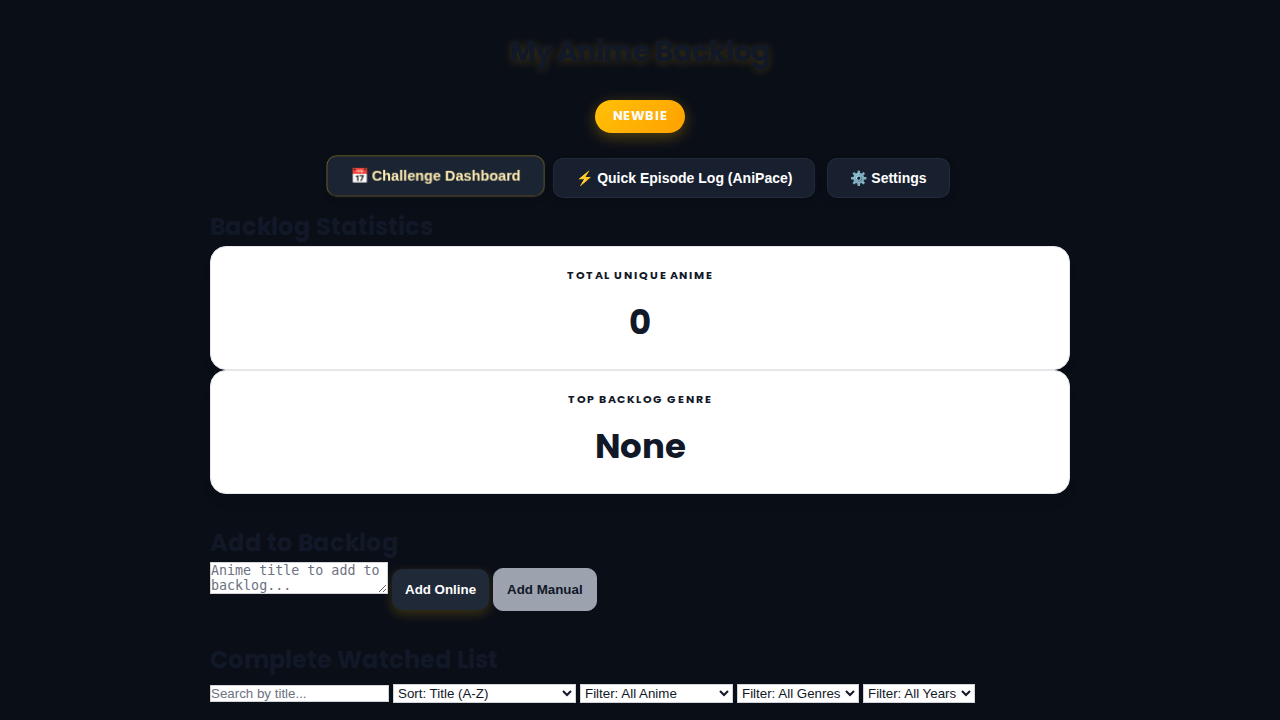
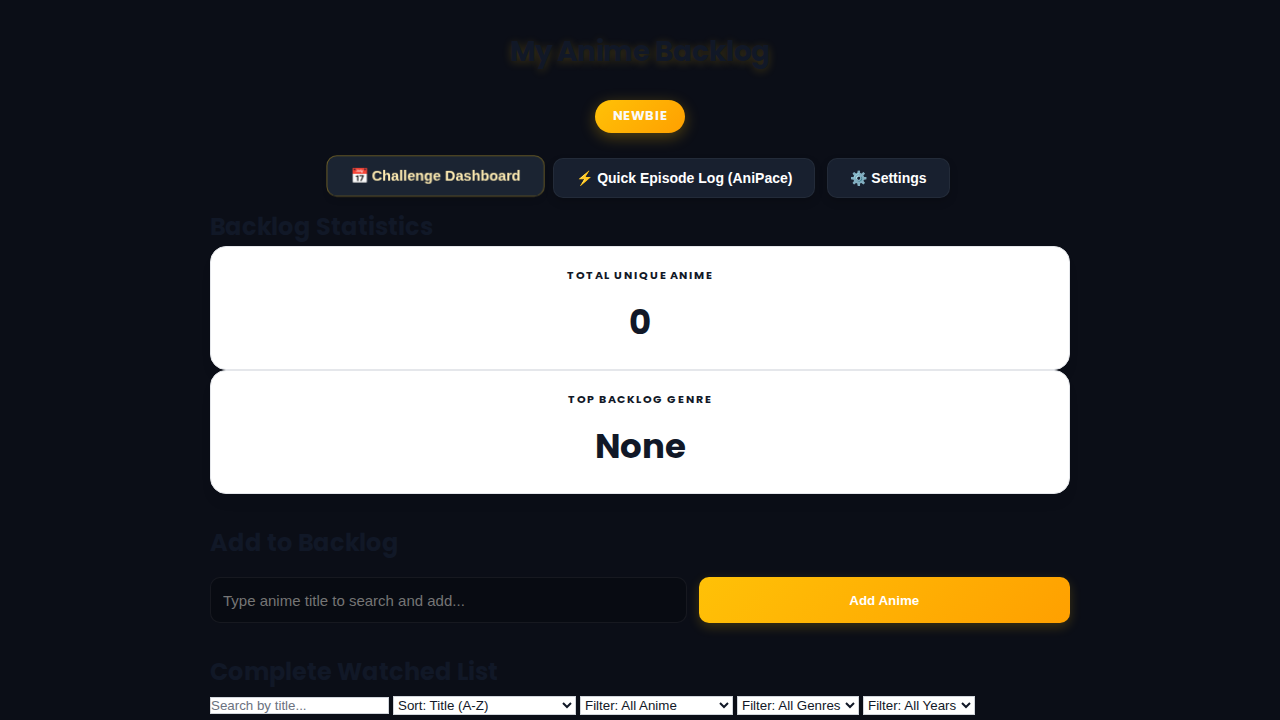
Final: Remove manual add buttons, upgrade search controls, and enforce flawless contrast rules

Changed region(s): [[0.1562, 0.9472, 0.7812, 1.0], [0.5312, 0.7944, 0.8438, 0.8861], [0.1562, 0.7639, 0.4688, 0.8556]]

diff --git a/script.js b/script.js
@@ -922,11 +922,10 @@ function createDayEntry(date) {
 
     const dateDisplay = date.toLocaleDateString('en-GB', { weekday: 'long', day: '2-digit', month: 'long', year: 'numeric' });
     
-    div.innerHTML = `<h3>${dateDisplay}<span class="daily-total"></span></h3><div class="anime-list-container"></div><textarea placeholder="Type an anime name..."></textarea><div class="add-controls"><button class="add-btn">Add from Online</button><button class="add-btn manual-add-btn">Add Manually</button></div>`;
+    div.innerHTML = `<h3>${dateDisplay}<span class="daily-total"></span></h3><div class="anime-list-container"></div><div class="add-controls" style="display: flex; gap: 10px; margin-top: 15px;"><input type="text" placeholder="Type anime name to search and add..." style="flex-grow: 1; padding: 12px; border-radius: 10px; background-color: rgba(0,0,0,0.2); border: 1px solid var(--border-light); color: var(--text-color); font-size: 15px;"><button class="add-btn" style="flex-shrink: 0; padding: 12px 24px; font-weight: 700; width: auto; margin: 0;">Add Anime</button></div>`;
     const animeListContainer = div.querySelector('.anime-list-container');
-    const animeInput = div.querySelector('textarea');
+    const animeInput = div.querySelector('input');
     const addOnlineBtn = div.querySelector('.add-btn');
-    const addManualBtn = div.querySelector('.manual-add-btn');
     const dailyTotalEl = div.querySelector('.daily-total');
 
     function renderWatchedList() {
@@ -1015,57 +1014,9 @@ function createDayEntry(date) {
             console.error("API Error:", error); 
             showNotification('Failed to fetch anime data. Check internet or API rate limits.', 'error'); 
         } finally { 
-            addOnlineBtn.textContent = 'Add from Online'; 
+            addOnlineBtn.textContent = 'Add Anime';
             addOnlineBtn.disabled = false; 
         } 
-    };
-    
-    addManualBtn.onclick = () => { 
-        const rawInput = animeInput.value.trim();
-        if (!rawInput) return;
-
-        const lines = rawInput.split('\n').map(l => l.trim()).filter(l => l.length > 0);
-        
-        if (lines.length > 1) {
-            let addedCount = 0;
-            lines.forEach(line => {
-                const parsed = parseBulkLine(line);
-                savedDayData.watched.push({
-                    title: parsed.title,
-                    isManual: true,
-                    user_score: parsed.rating,
-                    date_added: new Date().toISOString()
-                });
-                addedCount++;
-            });
-            animeInput.value = '';
-            saveData();
-            renderWatchedList();
-            updateAllDisplays();
-            processAchievements();
-            showNotification(`Successfully bulk-logged ${addedCount} anime!`);
-        } else {
-            const title = lines[0];
-            const parsed = parseBulkLine(title);
-
-            let rating = parsed.rating;
-            if (rating === null) {
-                rating = promptForRating(parsed.title);
-            }
-
-            savedDayData.watched.push({
-                title: parsed.title,
-                isManual: true,
-                user_score: rating,
-                date_added: new Date().toISOString()
-            });
-            animeInput.value = '';
-            saveData();
-            renderWatchedList();
-            updateAllDisplays();
-            processAchievements();
-            showNotification(`Logged ${parsed.title}!`);
-        }
     };
     
     renderWatchedList();
@@ -1276,7 +1227,6 @@ function initializeApp() {
 
     const backlogInput = document.getElementById('backlog-anime-input');
     const addBacklogOnlineBtn = document.getElementById('add-backlog-online-btn');
-    const addBacklogManualBtn = document.getElementById('add-backlog-manual-btn');
 
     addBacklogOnlineBtn.onclick = async () => {
         const title = backlogInput.value.trim(); 
@@ -1305,58 +1255,8 @@ function initializeApp() {
             console.error("API Error:", error); 
             showNotification('Failed to fetch anime data. Check internet or API rate limits.', 'error'); 
         } finally { 
-            addBacklogOnlineBtn.textContent = 'Add Online'; 
+            addBacklogOnlineBtn.textContent = 'Add Anime';
             addBacklogOnlineBtn.disabled = false; 
-        }
-    };
-
-    addBacklogManualBtn.onclick = () => { 
-        const rawInput = backlogInput.value.trim();
-        if (!rawInput) return;
-        
-        const lines = rawInput.split('\n').map(l => l.trim()).filter(l => l.length > 0);
-
-        if (lines.length > 1) {
-            // Bulk add mode
-            let addedCount = 0;
-            lines.forEach(line => {
-                const parsed = parseBulkLine(line);
-                challengeData.backlog.push({
-                    title: parsed.title,
-                    isManual: true,
-                    user_score: parsed.rating,
-                    date_added: new Date().toISOString()
-                });
-                addedCount++;
-            });
-            backlogInput.value = '';
-            saveData();
-            renderAllAnimeList();
-            updateAllDisplays();
-            processAchievements();
-            showNotification(`Successfully bulk-imported ${addedCount} anime into your backlog!`);
-        } else {
-            // Single add mode with prompt
-            const title = lines[0];
-            const parsed = parseBulkLine(title);
-
-            let rating = parsed.rating;
-            if (rating === null) {
-                rating = promptForRating(parsed.title);
-            }
-
-            challengeData.backlog.push({
-                title: parsed.title,
-                isManual: true,
-                user_score: rating,
-                date_added: new Date().toISOString()
-            });
-            backlogInput.value = '';
-            saveData();
-            renderAllAnimeList();
-            updateAllDisplays();
-            processAchievements();
-            showNotification(`Added ${parsed.title} to your backlog!`);
         }
     };
     
@@ -1679,7 +1579,7 @@ FIREBASE SETUP INSTRUCTIONS
        "users": {
          "$uid": {
            ".read": "auth != null && auth.uid == $uid",
-           ".write": "auth != null && auth.write == $uid"
+           ".write": "auth != null && auth.uid == $uid"
          }
        }
      }

diff --git a/styles.css b/styles.css
@@ -472,20 +472,20 @@ header h1 {
 .add-controls { display: flex; gap: 12px; }
 .add-btn {
     flex-grow: 1;
-    background-color: var(--primary-color);
-    color: #000;
+    background: linear-gradient(135deg, #FFC107, #FFA000);
+    color: #0A0E17;
     font-weight: 700;
     border: none;
     padding: 13px;
     border-radius: 10px;
     cursor: pointer;
-    transition: all 0.2s;
+    transition: all 0.3s cubic-bezier(0.16, 1, 0.3, 1);
     box-shadow: 0 4px 12px rgba(255, 193, 7, 0.2);
 }
 .add-btn:hover:not(:disabled) {
-    background-color: #FFE082;
-    transform: translateY(-1px);
-    box-shadow: 0 6px 15px rgba(255, 193, 7, 0.3);
+    background: linear-gradient(135deg, #FFE082, #FFC107);
+    transform: translateY(-2px) scale(1.02);
+    box-shadow: 0 6px 20px rgba(255, 193, 7, 0.35);
 }
 .add-btn:disabled { background-color: #374151; color: #9CA3AF; cursor: not-allowed; box-shadow: none; }
 .manual-add-btn {
@@ -770,23 +770,25 @@ header h1 {
 
 #achievement-banner { 
     position: fixed; 
-    top: -100px; 
+    top: -150px;
     left: 50%; 
     transform: translateX(-50%); 
     background: linear-gradient(135deg, var(--primary-color), #FFA000);
     color: #000;
     padding: 14px 28px;
-    border-radius: 0 0 16px 16px;
-    box-shadow: 0 10px 25px rgba(255, 193, 7, 0.3);
-    font-size: 16px;
+    border-radius: 12px;
+    box-shadow: 0 10px 35px rgba(0,0,0,0.45);
+    font-size: 15px;
     font-weight: 700;
     z-index: 10000; 
-    transition: top 0.5s cubic-bezier(0.175, 0.885, 0.32, 1.275), background-color 0.3s;
+    transition: top 0.4s cubic-bezier(0.175, 0.885, 0.32, 1.275);
     display: flex;
     align-items: center;
     justify-content: space-between;
+    width: 90%;
+    max-width: 500px;
 }
-#achievement-banner.show { top: 0; }
+#achievement-banner.show { top: 20px; }
 
 #achievement-banner .close-btn {
     color: #000;
@@ -1207,7 +1209,7 @@ input[type="date"]::-webkit-outer-spin-button {
     transition: all 0.3s cubic-bezier(0.16, 1, 0.3, 1) !important;
 }
 .add-btn:hover:not(:disabled) {
-    background: linear-gradient(135deg, #FFE082, var(--primary-color)) !important;
+    background: linear-gradient(135deg, #FFE082, #FFC107) !important;
     transform: translateY(-2px) scale(1.03);
     box-shadow: 0 8px 20px rgba(255, 193, 7, 0.4);
 }

diff --git a/index.html b/index.html
@@ -177,10 +177,9 @@
             </div>
 
             <h2 style="margin-top: 30px;">Add to Backlog</h2>
-            <div id="backlog-entry-controls">
-                <textarea id="backlog-anime-input" placeholder="Anime title to add to backlog..."></textarea>
-                <button id="add-backlog-online-btn" class="add-btn">Add Online</button>
-                <button id="add-backlog-manual-btn" class="add-btn manual-add-btn">Add Manual</button>
+            <div id="backlog-entry-controls" style="display: flex; gap: 12px; margin-top: 15px;">
+                <input type="text" id="backlog-anime-input" placeholder="Type anime title to search and add..." style="flex-grow: 1; padding: 12px; border-radius: 10px; background-color: rgba(0,0,0,0.2); border: 1px solid var(--border-light); color: var(--text-color); font-size: 15px;">
+                <button id="add-backlog-online-btn" class="add-btn" style="flex-shrink: 0; padding: 0 25px; height: 46px; font-weight: 700; width: auto; margin: 0;">Add Anime</button>
             </div>
 
             <h2 style="margin-top: 30px;">Complete Watched List</h2>
